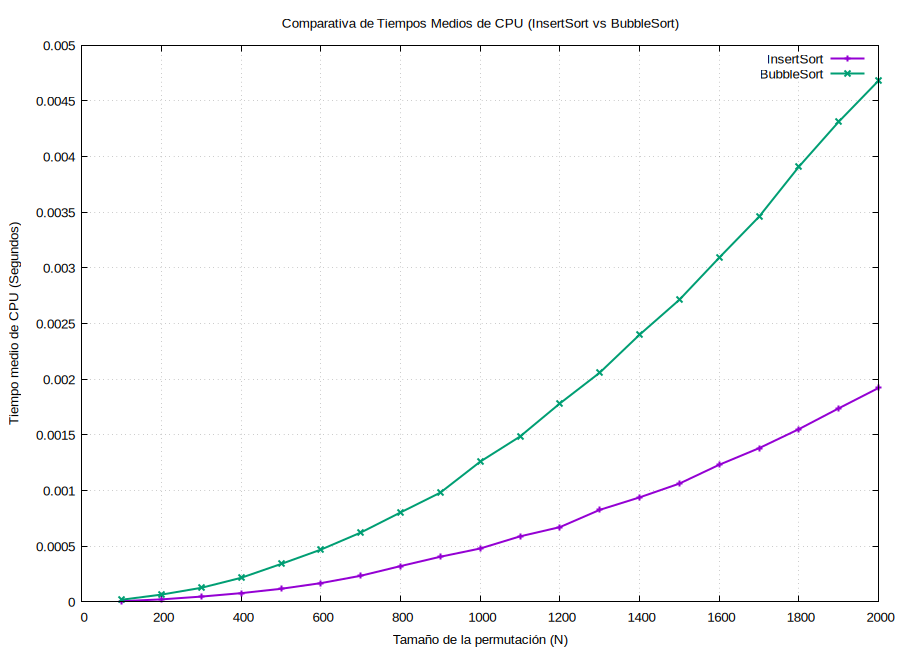
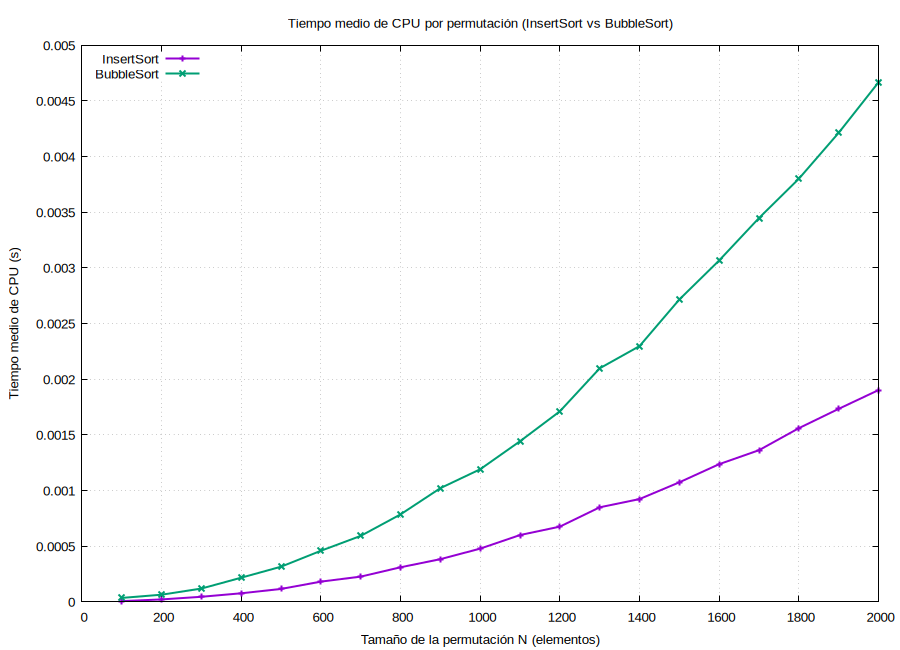
aa

diff --git a/exercise4.c b/exercise4.c
@@ -1,8 +1,9 @@
 /**************************************************/
-/* Programa: ejercise4       Date:                */
+/* Program: exercise4        Date: 2026           */
 /* Authors: Ziqi y Josemi                         */
 /*                                                */
-/* Program that checks InsertSort                 */
+/* Program that checks InsertSort and BubbleSort  */
+/* on copies of the same random permutation       */
 /*                                                */
 /* Input: Command Line                            */
 /* -size: number of elements of each permutation  */
@@ -17,18 +18,18 @@
 
 int main(int argc, char** argv) {
   int tamano = 0, i, j, ret = 0;
-  int* perm = NULL;
+  int *perm = NULL, *copia = NULL;
 
   srand(time(NULL));
 
   if (argc != 3) {
-	fprintf(stderr, "Error in input parameters:\n\n");
+    fprintf(stderr, "Error in input parameters:\n\n");
     fprintf(stderr, "%s -size <int>\n", argv[0]);
     fprintf(stderr, "Where:\n");
     fprintf(stderr, " -size : number of elements in the permutation.\n");
     return 0;
   }
-  printf("Practice number 1, section 4\n");
+  printf("Practice number 1, section 4 (and 6)\n");
   printf("Done by: Ziqi y Josemi\n");
   printf("Group: 1272/1202\n");
 
@@ -42,27 +43,48 @@ int main(int argc, char** argv) {
   }
 
   perm = generate_perm(tamano);
-
   if (perm == NULL) { /* error */
-    printf("Error: Out of memory\n");
+    printf("Error: invalid size or out of memory\n");
     exit(-1);
   }
 
-  ret =InsertSort(perm, 0, tamano-1);
-
-  if (ret == ERR) {
-    printf("Error: Error in InsertSort\n");
+  copia = (int *)malloc(tamano * sizeof(int));
+  if (copia == NULL) {
+    printf("Error: Out of memory\n");
     free(perm);
     exit(-1);
   }
+  for (j = 0; j < tamano; j++)
+    copia[j] = perm[j];
 
-  for(j = 0; j < tamano; j++) {
+  printf("Original:\n");
+  for (j = 0; j < tamano; j++)
     printf("%d \t", perm[j]);
+  printf("\n");
+
+  ret = InsertSort(perm, 0, tamano - 1);
+  if (ret == ERR) {
+    printf("Error: Error in InsertSort\n");
+    free(perm); free(copia);
+    exit(-1);
   }
+  printf("InsertSort (OB = %d):\n", ret);
+  for (j = 0; j < tamano; j++)
+    printf("%d \t", perm[j]);
+  printf("\n");
+
+  ret = BubbleSort(copia, 0, tamano - 1);
+  if (ret == ERR) {
+    printf("Error: Error in BubbleSort\n");
+    free(perm); free(copia);
+    exit(-1);
+  }
+  printf("BubbleSort (OB = %d):\n", ret);
+  for (j = 0; j < tamano; j++)
+    printf("%d \t", copia[j]);
   printf("\n");
 
   free(perm);
-
+  free(copia);
   return 0;
 }
-

diff --git a/exercise5.c b/exercise5.c
@@ -21,6 +21,8 @@
 #include "sorting.h"
 #include "times.h"
 
+#define SEED 12345 /* semilla fija: reproducible */
+
 int main(int argc, char** argv)
 {
   int i, num_min = 0, num_max = 0, incr = 0, n_perms = 0;
@@ -29,7 +31,7 @@ int main(int argc, char** argv)
   char fichero_bubble[300] = "";
   short ret;
 
-  srand(time(NULL));
+  srand(SEED);
 
   if (argc != 11) {
     fprintf(stderr, "Error in input parameters:\n\n");
@@ -59,7 +61,11 @@ int main(int argc, char** argv)
     } else if (strcmp(argv[i], "-numP") == 0) {
       n_perms = atoi(argv[++i]);
     } else if (strcmp(argv[i], "-outputFile") == 0) {
-      strcpy(nombre, argv[++i]);
+      if (strlen(argv[++i]) > 200) {
+        fprintf(stderr, "Output file name too long\n");
+        exit(-1);
+      }
+      strcpy(nombre, argv[i]);
     } else {
       fprintf(stderr, "Wrong parameter %s\n", argv[i]);
       exit(-1);
@@ -72,6 +78,7 @@ int main(int argc, char** argv)
 
   /* Medición 1: InsertSort */
   printf("Calculando tiempos para InsertSort...\n");
+  srand(SEED); /* mismas permutaciones para ambos metodos */
   ret = generate_sorting_times(InsertSort, fichero_insert, num_min, num_max, incr, n_perms);
   if (ret == ERR) { 
     fprintf(stderr, "Error en la generación de tiempos de InsertSort\n");
@@ -80,6 +87,7 @@ int main(int argc, char** argv)
 
   /* Medición 2: BubbleSort */
   printf("Calculando tiempos para BubbleSort...\n");
+  srand(SEED); /* misma secuencia de rand() que InsertSort */
   ret = generate_sorting_times(BubbleSort, fichero_bubble, num_min, num_max, incr, n_perms);
   if (ret == ERR) { 
     fprintf(stderr, "Error en la generación de tiempos de BubbleSort\n");

diff --git a/times.c b/times.c
@@ -143,20 +143,27 @@ short save_time_table(char *file, PTIME_AA ptime, int n_times)
 {
   FILE *fp;
   int i;
+
+  if (!file || !ptime || n_times <= 0)
+    return ERR;
+
   fp = fopen(file, "w");
   if (fp == NULL)
-  {
     return ERR;
-  }
 
+  /* 6 columnas: N n_elems time average_ob min_ob max_ob */
   for (i = 0; i < n_times; i++)
   {
-    if (fprintf(fp, "%d %f %f %d %d\n", ptime[i].N, ptime[i].time, ptime[i].average_ob, ptime[i].min_ob, ptime[i].max_ob) < 0)
+    if (fprintf(fp, "%d %d %.9f %.4f %d %d\n", ptime[i].N, ptime[i].n_elems,
+                ptime[i].time, ptime[i].average_ob, ptime[i].min_ob,
+                ptime[i].max_ob) < 0)
     {
       fclose(fp);
       return ERR;
     }
   }
-  fclose(fp);
+
+  if (fclose(fp) != 0)
+    return ERR;
   return OK;
 }
